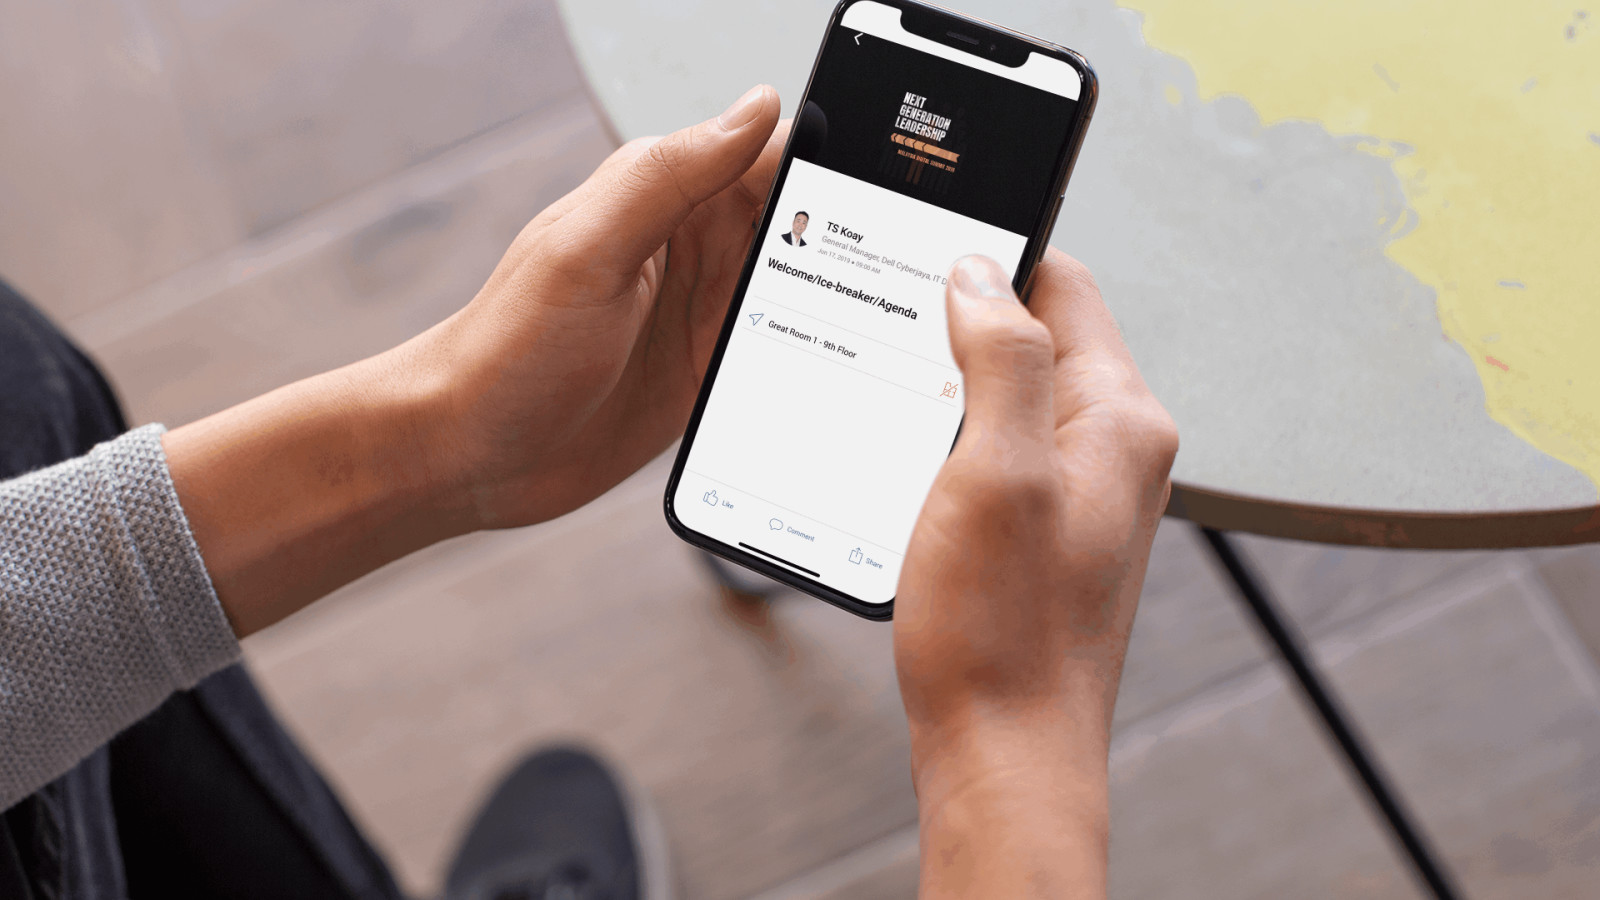
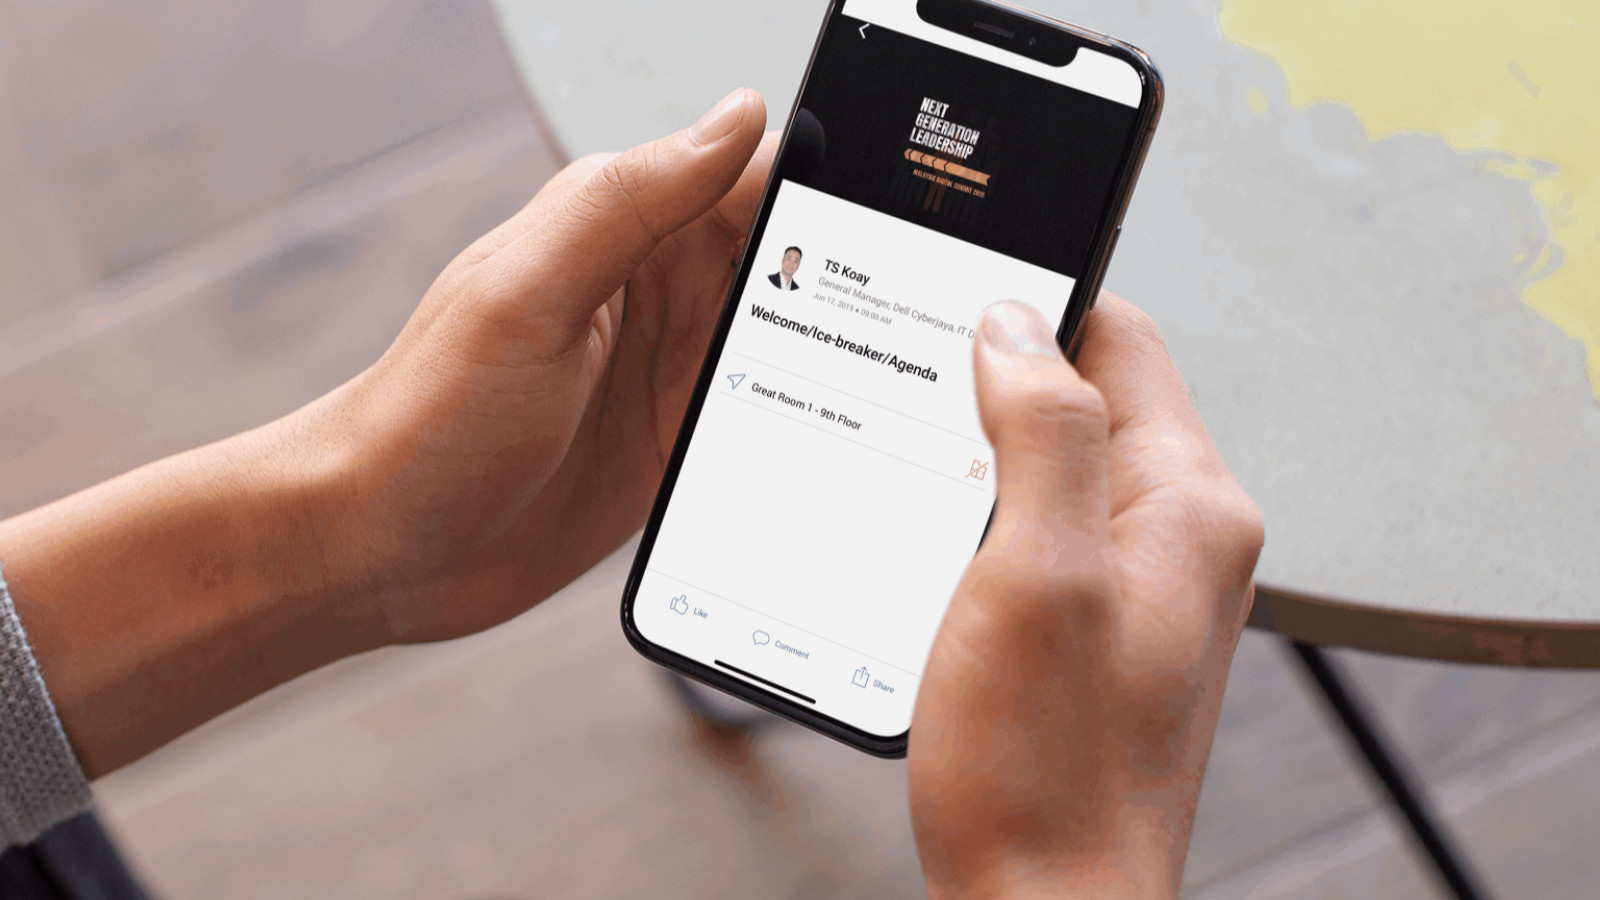
create github pages

diff --git a/index.html b/index.html
@@ -50,13 +50,13 @@
             <ul>
                 <li>
                     
-                    <img src="assets/images/mockup-of-an-iphone-xs-held-by-a-man-outside-25532-1-1024x576.jpg" alt="Engage" title="Engage"> Your Outlock on your mobile
+                    <img src="assets/images/mockup-of-an-iphone-xs-held-by-a-man-outside-25532-1-1600x900.jpg" alt="Engage" title="Engage"> Your Outlock on your mobile
                 </li><li>
                     
-                    <img src="assets/images/mockup-of-an-iphone-xs-held-by-a-man-outside-25532-2-1024x576.jpg" alt="Event App" title="Event App"> For Conference/Event application
+                    <img src="assets/images/mockup-of-an-iphone-xs-held-by-a-man-outside-25532-2-1600x900.jpg" alt="Event App" title="Event App"> For Conference/Event application
                 </li><li>
                     <a href="http://google.com">
-                    <img src="assets/images/mockup-of-an-iphone-xs-held-by-a-man-outside-25532-3-1024x576.jpg" alt="GRC Reporting" title="GRC Reporting">GRC Reporting at your fingure tip
+                    <img src="assets/images/mockup-of-an-iphone-xs-held-by-a-man-outside-25532-3-1600x900.jpg" alt="GRC Reporting" title="GRC Reporting">GRC Reporting at your fingure tip
                     </a>
                      GRC Reporting at your fingure tip
                 </li>
@@ -75,11 +75,11 @@
         </div>
         <div class="ws_shadow"></div>
         <div class="mbr-wowslider-options">
-            <div class="params" data-paddingbottom="0" data-anim-type="carousel" data-theme="animated" data-autoplay="true" data-paddingtop="0" data-fullscreen="true" data-showbullets="false" data-timeout="2" data-duration="2" data-height="576" data-width="1024" data-responsive="1" data-showcaptions="true" data-captionseffect="slide" data-hidecontrols="true"></div>
+            <div class="params" data-paddingbottom="0" data-anim-type="carousel" data-theme="animated" data-autoplay="true" data-paddingtop="0" data-fullscreen="true" data-showbullets="false" data-timeout="2" data-duration="2" data-height="576" data-width="1024" data-responsive="2" data-showcaptions="true" data-captionseffect="slide" data-hidecontrols="true"></div>
         </div>
 </div></section>
 
-<section class="engine"><a href="https://mobiri.se/c">website builder</a></section><section class="testimonials5 cid-rDsp7N0jG2 mbr-parallax-background" id="testimonials5-1">
+<section class="engine"><a href="https://mobiri.se/k">develop your own website</a></section><section class="testimonials5 cid-rDsp7N0jG2 mbr-parallax-background" id="testimonials5-1">
 
     
 
